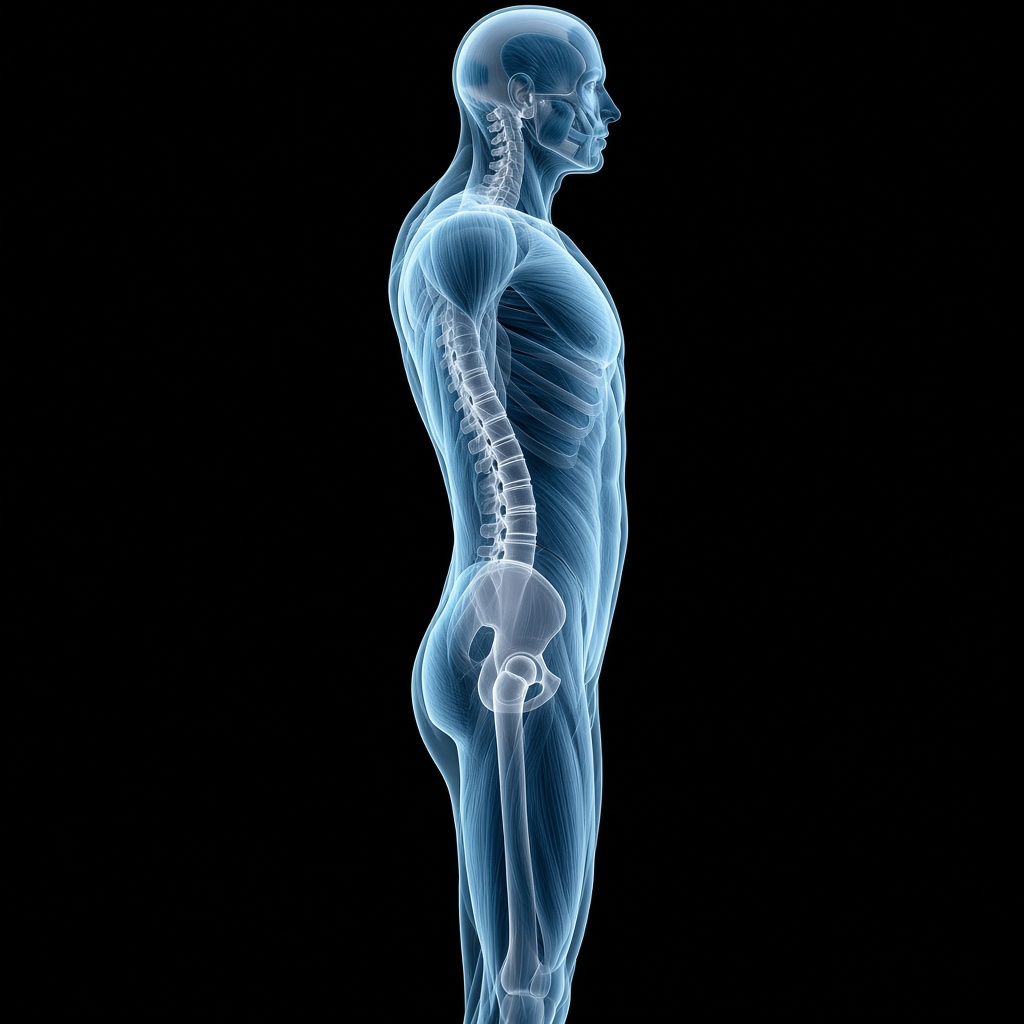
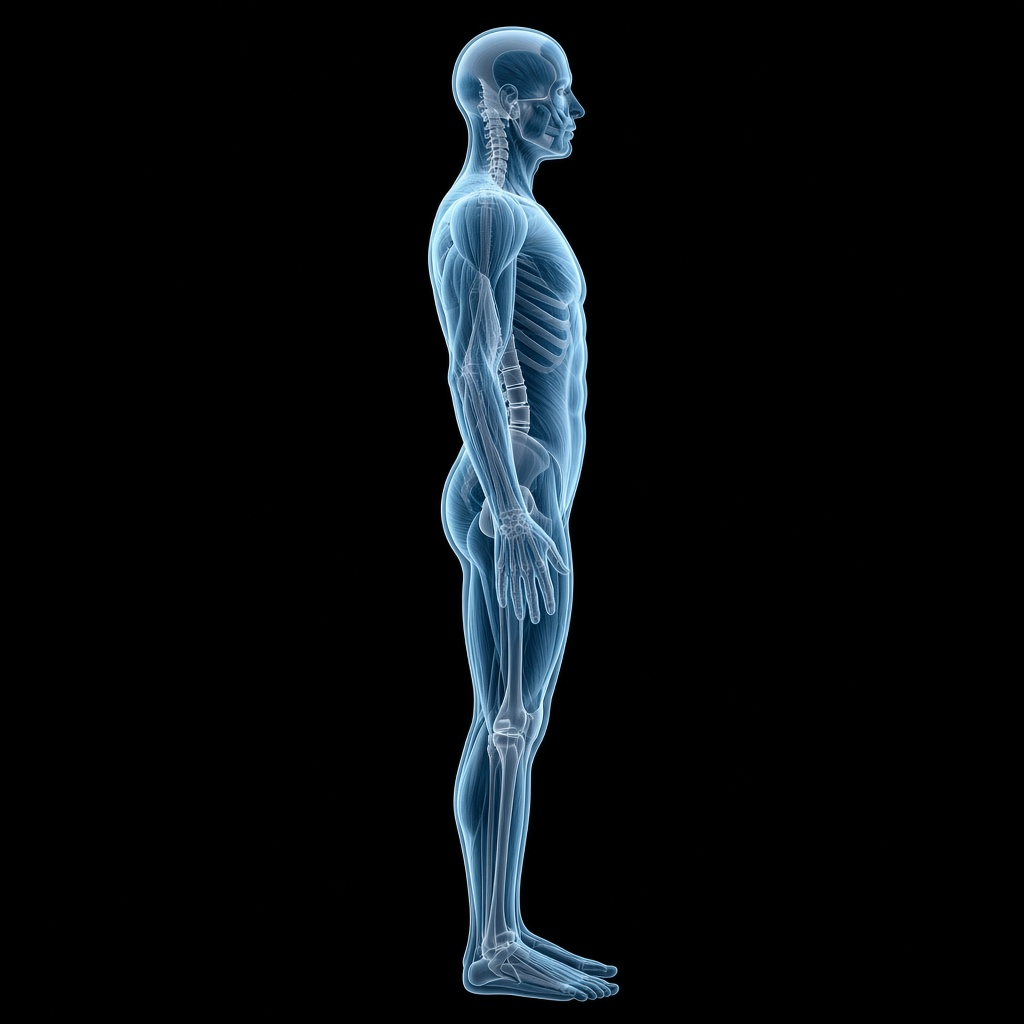
docs(anatomy): full-length candidate left/right plates
Regenerate candidate lateral views as head-to-feet figures so side
framing matches current production left/right plates.

Changed region(s): [[0.375, 0.0, 0.625, 1.0]]

diff --git a/docs/visual-targets/directional-comparison/index.html b/docs/visual-targets/directional-comparison/index.html
@@ -207,7 +207,7 @@
       <h2>Quick read</h2>
       <ul>
         <li><strong>Style match:</strong> Candidate keeps the cyan/blue translucent muscle + glowing skeleton on black used by current plates.</li>
-        <li><strong>Framing:</strong> Current front/back are upper-body crops; current left is closer to full-body. Candidate aims for a more consistent mid-neck→mid-thigh crop across all four.</li>
+        <li><strong>Framing:</strong> Current front/back are upper-body crops; current left/right are full-length. Candidate left/right are full-length (head→feet) to match the side plates; front/back stay torso-focused.</li>
         <li><strong>Laterality:</strong> Current adult-female left/right files are byte-identical to adult-male left/right. Candidate right is a true opposite lateral (face toward image-left).</li>
         <li><strong>Sex consistency:</strong> Current right plate reads more female in places; candidate set is intentionally adult-male throughout.</li>
         <li><em>Not production-ready:</em> AI plates are for comparison only — do not replace <code>public/anatomy/</code> without clinical art review and region-map revalidation.</li>

diff --git a/docs/visual-targets/directional-comparison/README.md b/docs/visual-targets/directional-comparison/README.md
@@ -20,7 +20,7 @@ Produce an independent four-view set in the same holographic musculo-skeletal at
 ## Observations
 
 1. **Style** — Candidates match the cyan/blue translucent muscle + brighter skeletal glow on black.
-2. **Crop consistency** — Current front/back are torso-forward crops; current left reads taller/fuller. Candidates target a shared mid-neck → mid-thigh frame.
+2. **Crop consistency** — Current front/back are torso-forward crops; current left/right are full-length. Candidate left/right are now full-length (head→feet) to match side framing; front/back remain torso-focused.
 3. **Shared side assets** — `adult-female/left.png` and `right.png` are currently byte-identical to the male side plates (known gap). Candidates keep an adult-male-only laterality pair.
 4. **Right laterality** — Candidate right faces image-left (viewer sees body’s right), aligned with `spatial-projection.js` (`right` → yaw `+π/2`).
 5. **Not a drop-in** — Generated art is comparison-only. Replacing production plates needs clinical review, region/hit-map checks, and female/child/teen/senior parity.
